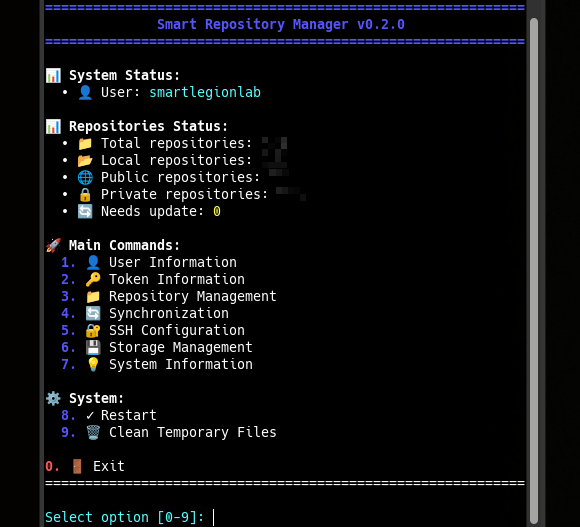
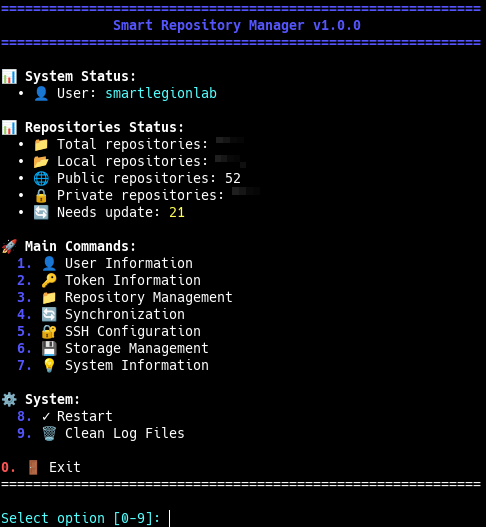
Smart Repository Manager CLI v1.0.1

Changed region(s): [[0.0, 0.0, 0.9877, 1.0]]

diff --git a/engine/__init__.py b/engine/__init__.py
@@ -1,4 +1,4 @@
 # Copyright (©) 2026, Alexander Suvorov. All rights reserved.
 
-__version__ = 'v1.0.0'
+__version__ = 'v1.0.1'
 __copyright__ = "Copyright (©) 2026, Alexander Suvorov."

diff --git a/README.md b/README.md
@@ -1,4 +1,4 @@
-# Smart Repository Manager CLI <sup>v1.0.0</sup>
+# Smart Repository Manager CLI <sup>v1.0.1</sup>
 
 A comprehensive command-line tool for managing GitHub repositories with advanced synchronization, SSH configuration management, and intelligent local repository management.
 
@@ -61,7 +61,7 @@ Smart Repository Manager CLI is a powerful tool that helps you:
 - **Organized Structure**: Automatic directory organization by user
 - **Size Monitoring**: Track storage usage
 - **Cleanup Tools**: Remove individual or all local repositories
-- **Temporary File Management**: Automatic cleanup of temporary files
+- **Log Files Management**: Cleanup of log files
 
 ---
 
